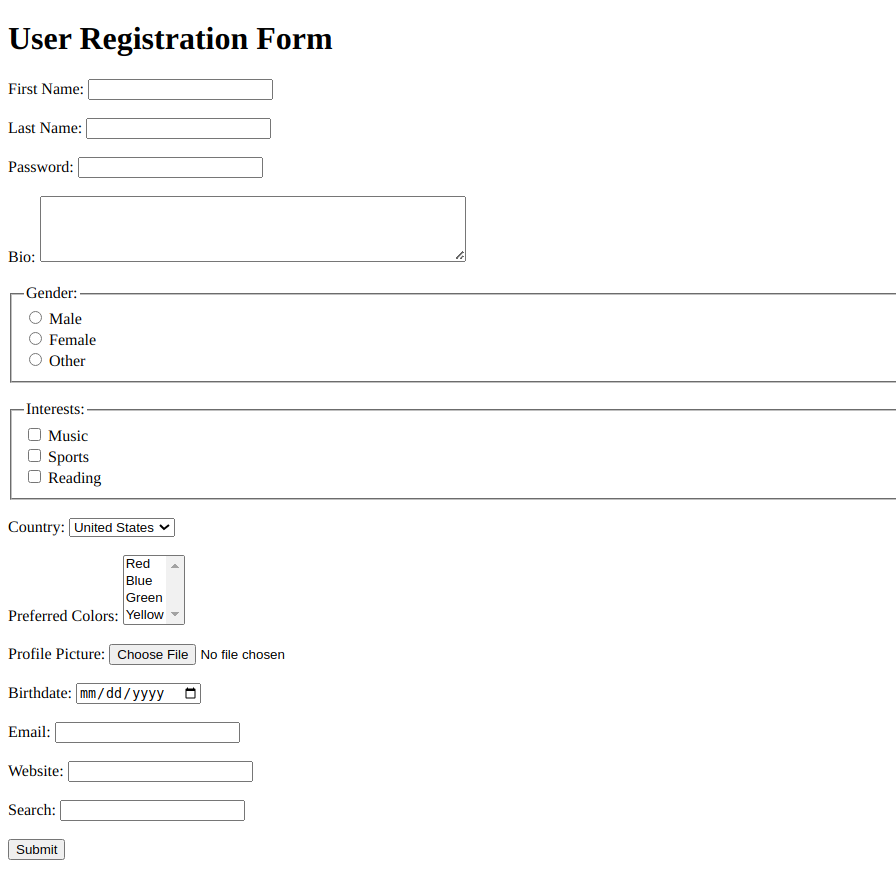
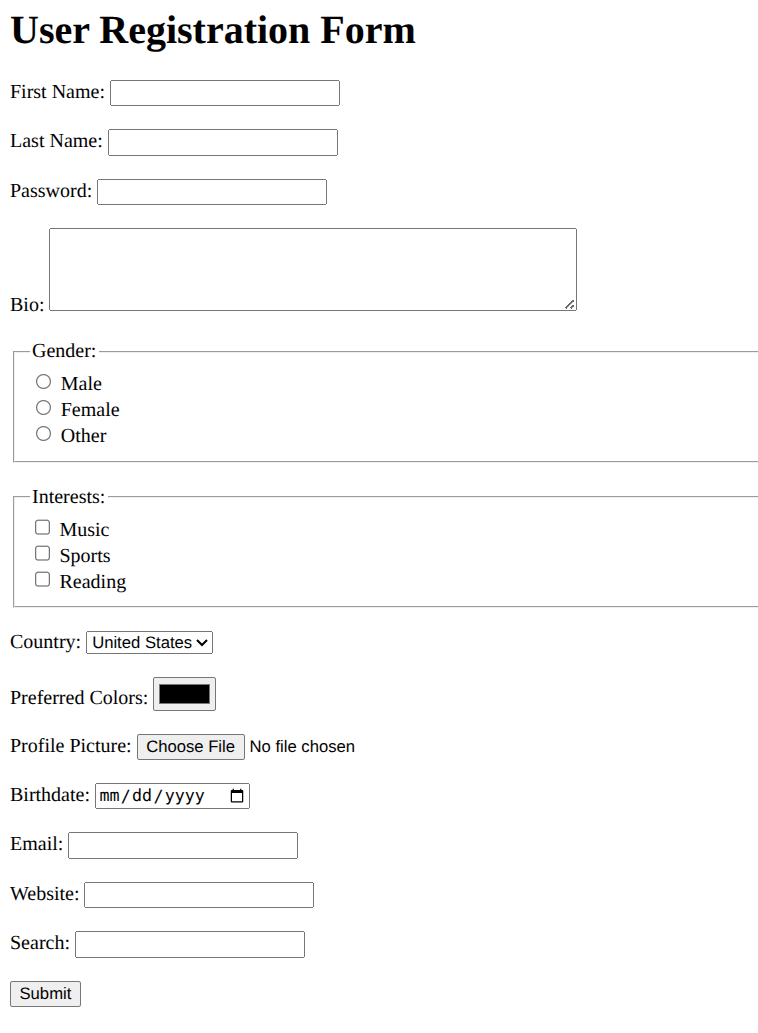
fix forms assignment

diff --git a/practiceProjects/06_Forms/index.html b/practiceProjects/06_Forms/index.html
@@ -52,12 +52,8 @@
         </select><br><br>
         
         <label for="colors">Preferred Colors:</label>
-        <select id="colors" name="colors" multiple>
-            <option value="red">Red</option>
-            <option value="blue">Blue</option>
-            <option value="green">Green</option>
-            <option value="yellow">Yellow</option>
-        </select><br><br>
+        <input type="color">
+        <br><br>
         
         <label for="profilePic">Profile Picture:</label>
         <input type="file" id="profilePic" name="profilePic"><br><br>
